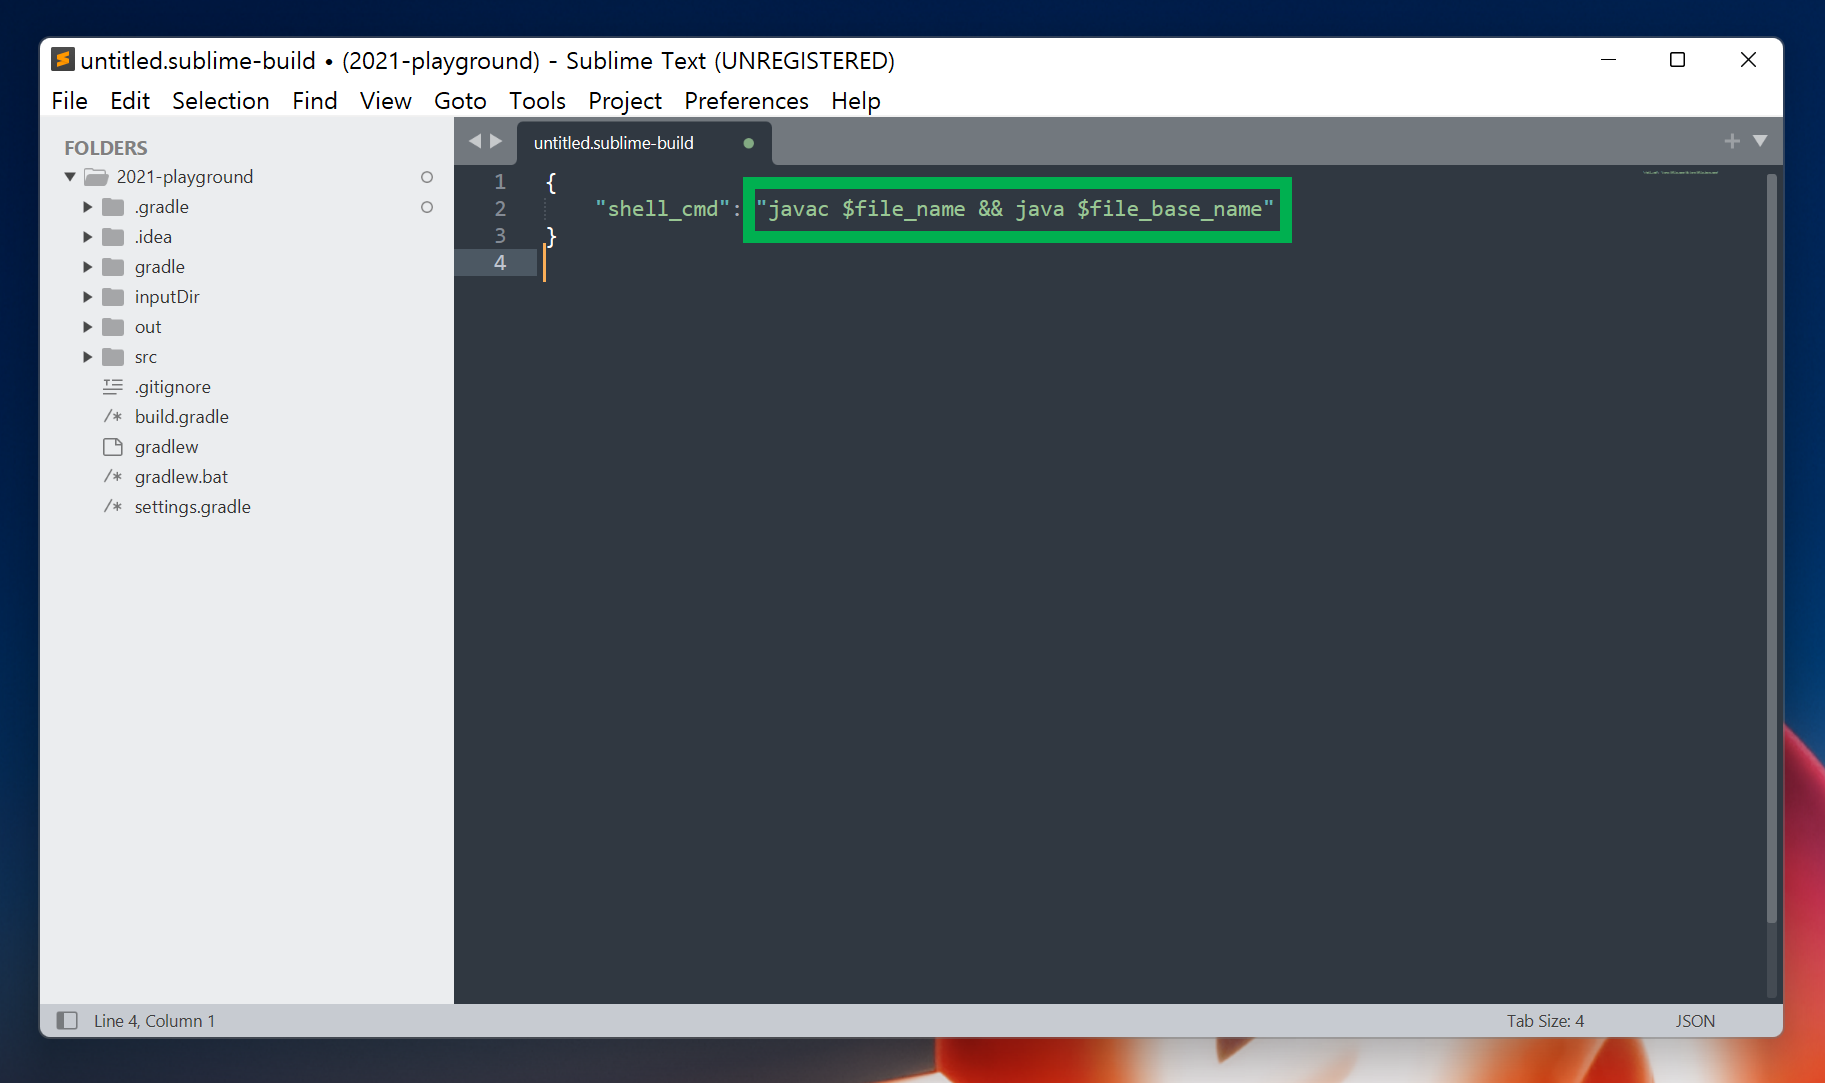
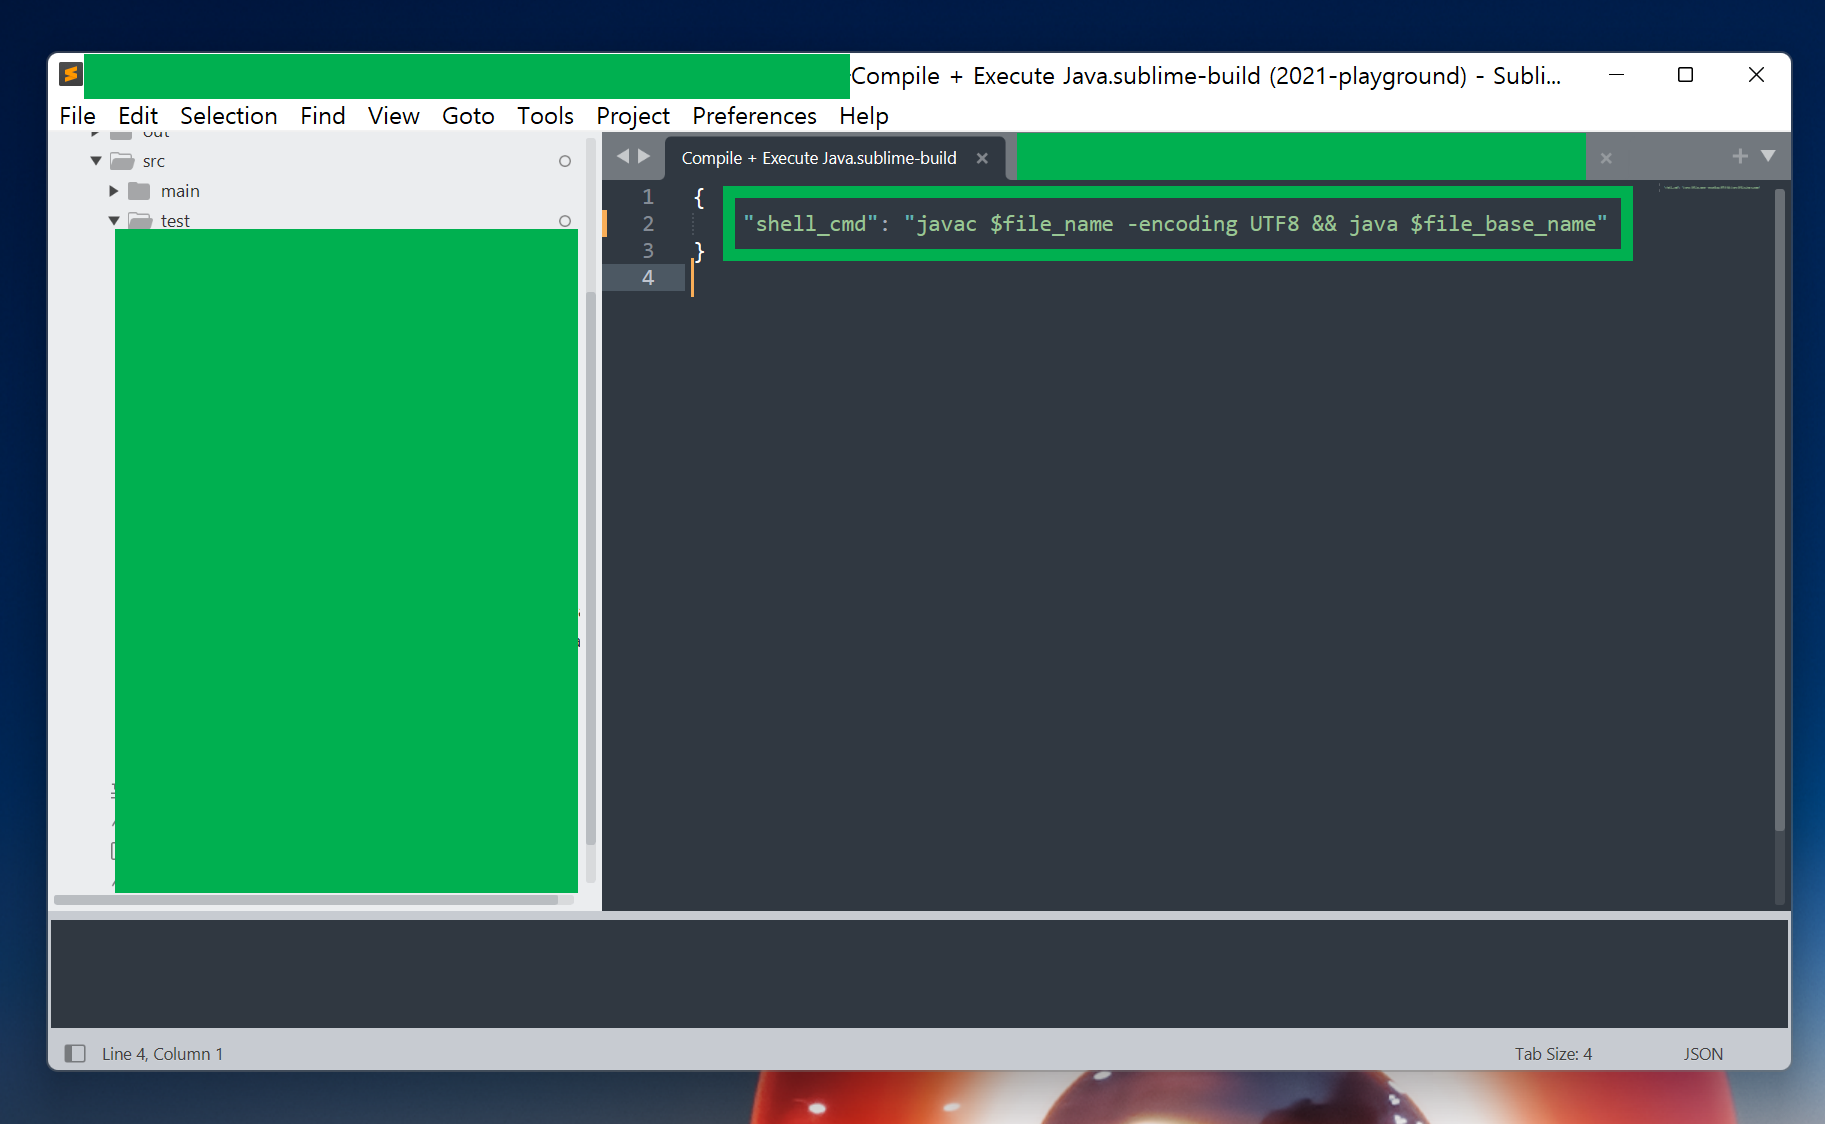
Sublime Text Java Build 세팅

diff --git a/etc/Sublime Text Java build 세팅.md b/etc/Sublime Text Java build 세팅.md
@@ -20,7 +20,7 @@
 
 ```json
 {
-	"shell_cmd": "javac $file_name && java $file_base_name"
+	"shell_cmd": "javac $file_name -encoding UTF8 && java $file_base_name"
 }
 ```
 
